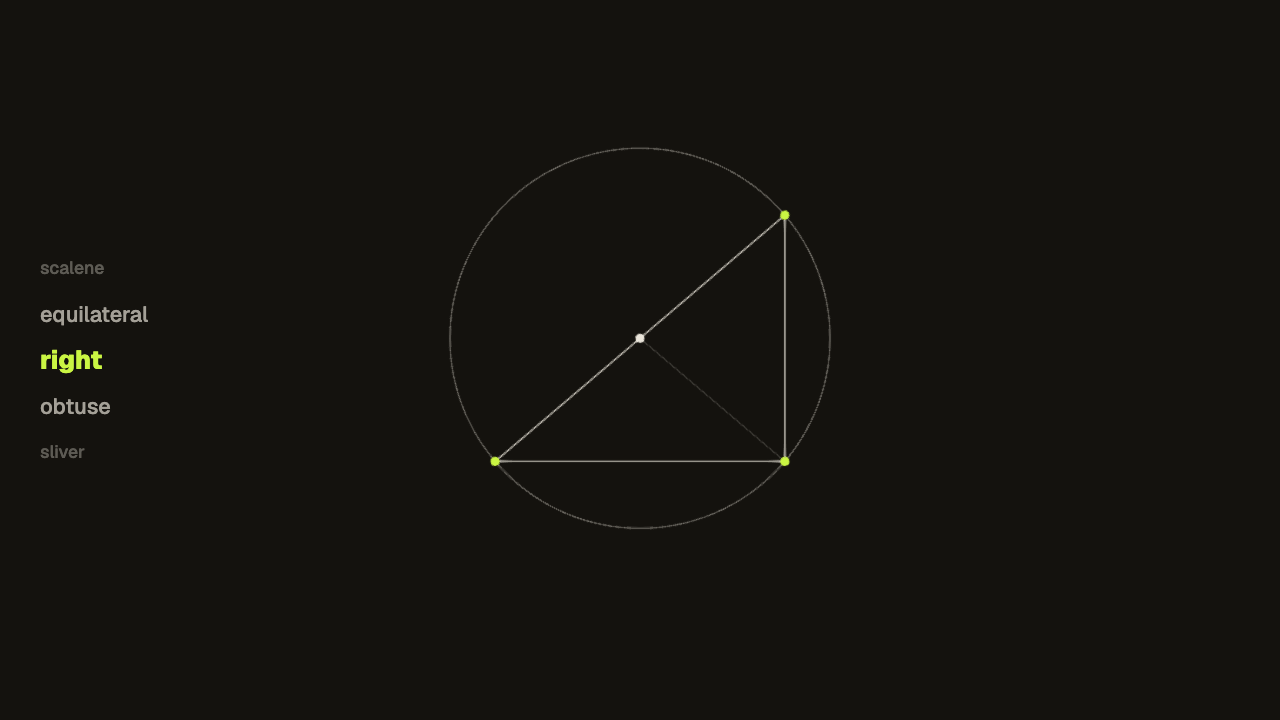
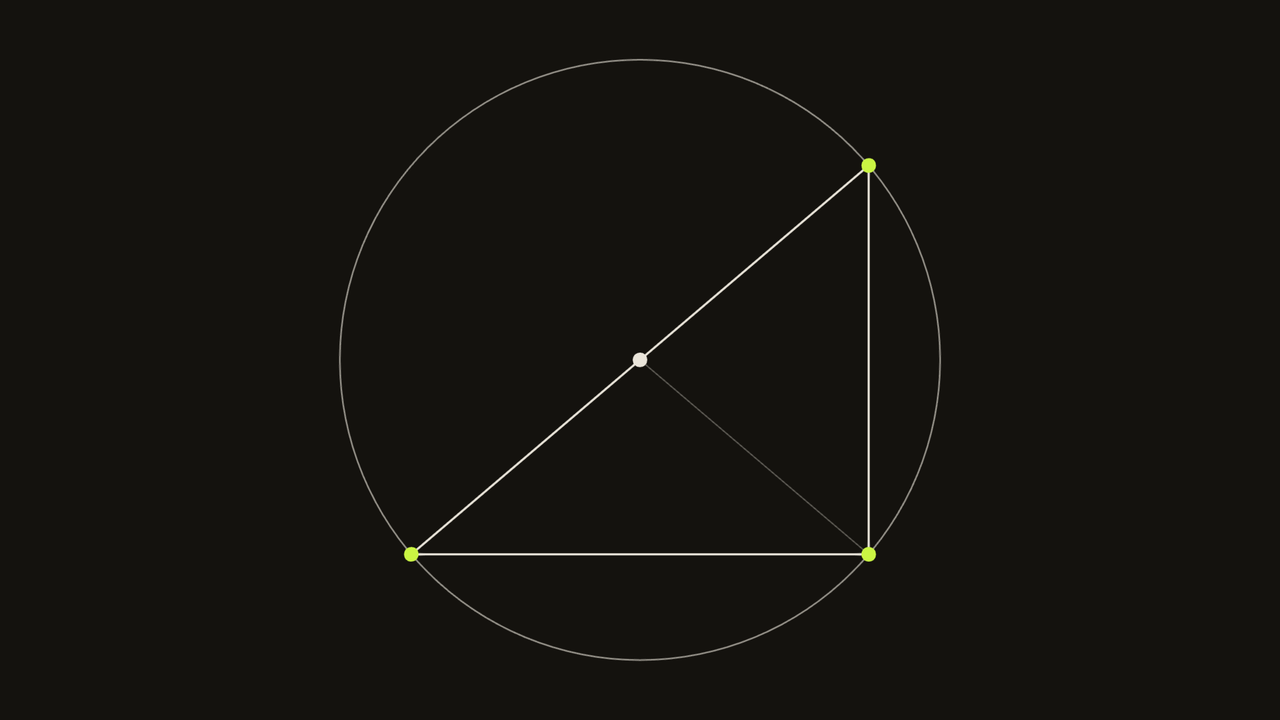
Frame example screenshots around artwork without UI

diff --git a/examples/scripts/screenshot.js b/examples/scripts/screenshot.js
@@ -2,7 +2,7 @@
  * Screenshot automation for examples.
  *
  * Starts `pnpm run dev` (Vite dev server), navigates Playwright Chromium to
- * each example, waits for rendering to settle, clips to the <canvas> element,
+ * each example, hides overlays, and frames the rendered content with a little margin,
  * and writes PNGs to examples/public/screenshots/<key>.png.
  *
  * Usage:
@@ -16,6 +16,7 @@ import { spawn } from 'node:child_process';
 import { mkdirSync, readFileSync } from 'node:fs';
 import { dirname, resolve } from 'node:path';
 import { fileURLToPath } from 'node:url';
+import sharp from 'sharp';
 
 const __dirname = dirname(fileURLToPath(import.meta.url));
 const examplesDir = resolve(__dirname, '..');
@@ -50,8 +51,9 @@ mkdirSync(screenshotsDir, { recursive: true });
 
 function startDevServer() {
     return new Promise((resolve, reject) => {
-        const proc = spawn('pnpm', ['run', 'dev', '--', '--port', '5199', '--strictPort'], {
+        const proc = spawn('pnpm', ['exec', 'vite', '--port', '5199', '--strictPort'], {
             cwd: examplesDir,
+            env: { ...process.env, BROWSER: 'none' },
             stdio: ['ignore', 'pipe', 'pipe'],
         });
 
@@ -84,6 +86,38 @@ function startDevServer() {
 // ---------------------------------------------------------------------------
 
 let viteProc = null;
+let browser = null;
+
+/** Keep the drawing centered in a 16:9 frame with room around its outermost marks. */
+async function frameDrawing(screenshot, outPath) {
+    const { data, info } = await sharp(screenshot).removeAlpha().raw().toBuffer({ resolveWithObject: true });
+    let left = info.width, top = info.height, right = -1, bottom = -1;
+    for (let y = 0; y < info.height; y++) {
+        for (let x = 0; x < info.width; x++) {
+            const offset = (y * info.width + x) * info.channels;
+            // The warm background is #14120e. Ignore near-background antialiasing.
+            if (Math.max(Math.abs(data[offset] - 20), Math.abs(data[offset + 1] - 18), Math.abs(data[offset + 2] - 14)) <= 8) continue;
+            left = Math.min(left, x);
+            right = Math.max(right, x);
+            top = Math.min(top, y);
+            bottom = Math.max(bottom, y);
+        }
+    }
+    if (right < left) throw new Error(`No visible drawing for ${outPath}`);
+    const units = Math.min(
+        Math.floor(info.width / 16),
+        Math.floor(info.height / 9),
+        Math.ceil(Math.max((right - left + 1) / 16, (bottom - top + 1) / 9) / 0.84),
+    );
+    const width = units * 16;
+    const height = units * 9;
+    await sharp(screenshot).extract({
+        left: Math.max(0, Math.min(info.width - width, Math.round((left + right - width) / 2))),
+        top: Math.max(0, Math.min(info.height - height, Math.round((top + bottom - height) / 2))),
+        width,
+        height,
+    }).resize(VIEWPORT.width, VIEWPORT.height).png().toFile(outPath);
+}
 
 try {
     console.log('Starting Vite dev server...');
@@ -91,7 +125,7 @@ try {
     viteProc = proc;
     console.log(`Vite ready at ${url}`);
 
-    const browser = await chromium.launch({
+    browser = await chromium.launch({
         // Headless by default so the run doesn't steal desktop focus.
         // Set HEADED=1 to watch it drive a real window.
         headless: process.env.HEADED !== '1',
@@ -105,11 +139,12 @@ try {
         ],
     });
 
-    const context = await browser.newContext({ viewport: VIEWPORT });
+    const context = await browser.newContext({ viewport: VIEWPORT, deviceScaleFactor: 3 });
     const page = await context.newPage();
 
     // Surface any page errors so we know if an example fails to init
-    page.on('pageerror', (err) => console.error(`[page error] ${err.message}`));
+    const errors = [];
+    page.on('pageerror', (err) => errors.push(err.message));
     page.on('console', (msg) => {
         if (msg.type() === 'error') console.error(`[console error] ${msg.text()}`);
     });
@@ -119,24 +154,33 @@ try {
         console.log(`\n→ ${key}`);
 
         await page.goto(pageUrl, { waitUntil: 'networkidle' });
+        await page.addStyleTag({ content: 'body * { visibility: hidden !important; } canvas { visibility: visible !important; }' });
         await page.waitForTimeout(TIMEOUT_MS);
+        if (errors.length) throw new Error(`${key}: ${errors.join('\n')}`);
+
+        if (key === 'example-spring') {
+            // Stretch the tail so its individual wireframe beads are visible.
+            await page.mouse.move(VIEWPORT.width * 0.28, VIEWPORT.height * 0.65);
+            await page.waitForTimeout(400);
+            await page.mouse.move(VIEWPORT.width * 0.72, VIEWPORT.height * 0.35);
+            await page.waitForTimeout(75);
+        }
 
         const canvas = page.locator('canvas').first();
         const box = await canvas.boundingBox();
 
         if (!box) {
-            console.warn(`  No <canvas> found — skipping`);
-            continue;
+            throw new Error(`${key}: no canvas found`);
         }
 
         const outPath = resolve(screenshotsDir, `${key}.png`);
-        await page.screenshot({ path: outPath, clip: box });
+        await frameDrawing(await page.screenshot({ clip: box }), outPath);
         console.log(`  Saved → ${outPath}`);
     }
 
-    await browser.close();
     console.log('\nAll screenshots captured.');
 } finally {
+    if (browser) await browser.close();
     if (viteProc) {
         viteProc.kill('SIGTERM');
     }
